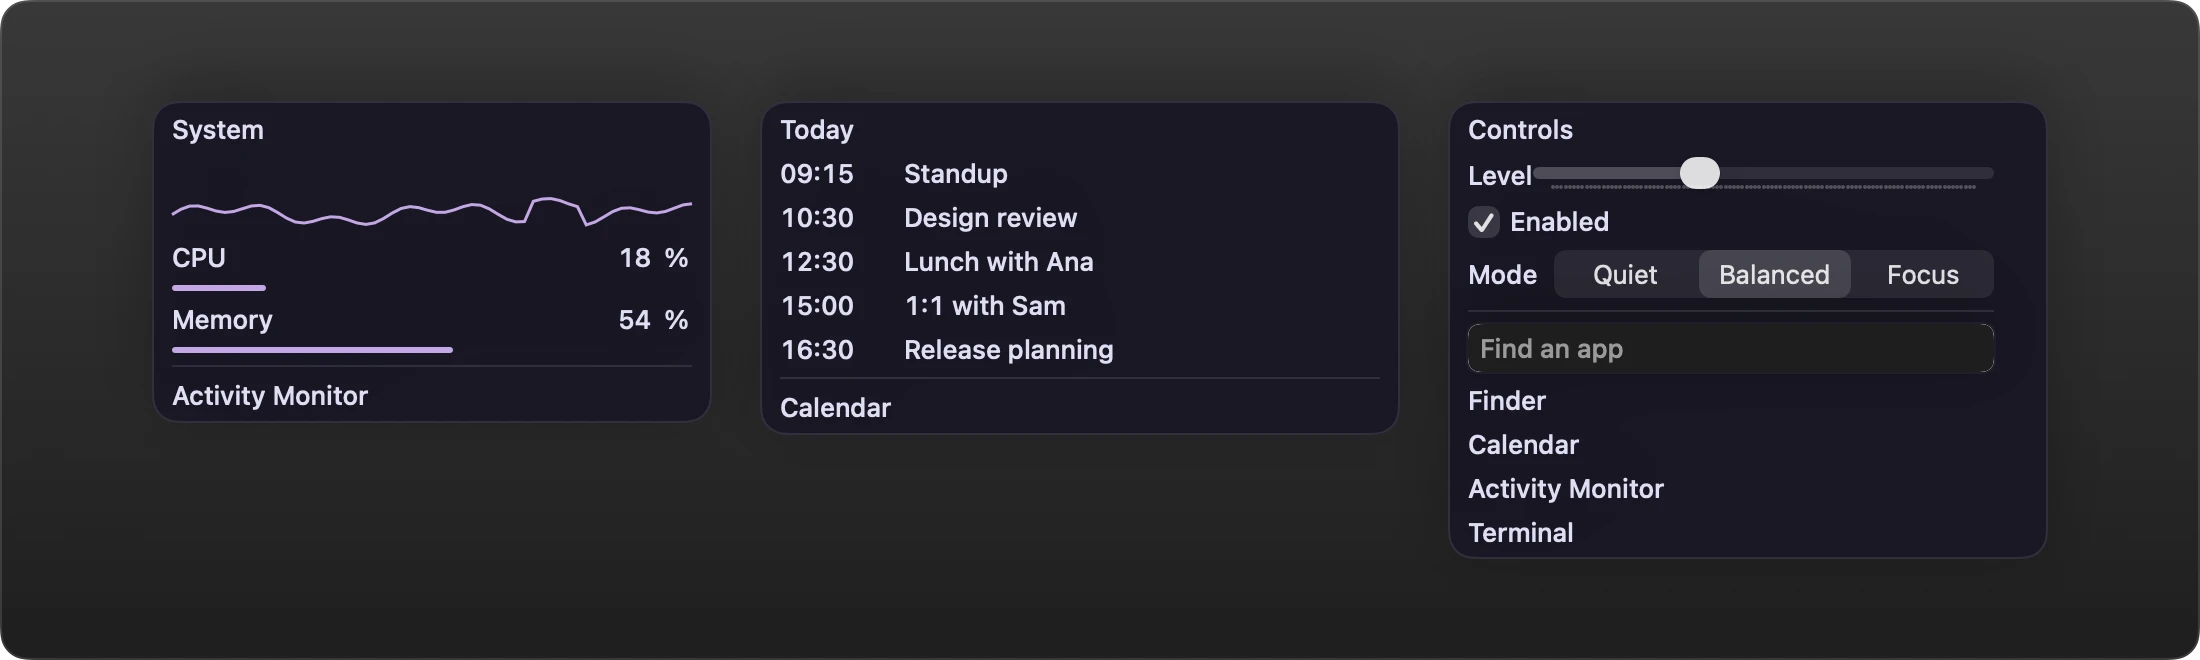
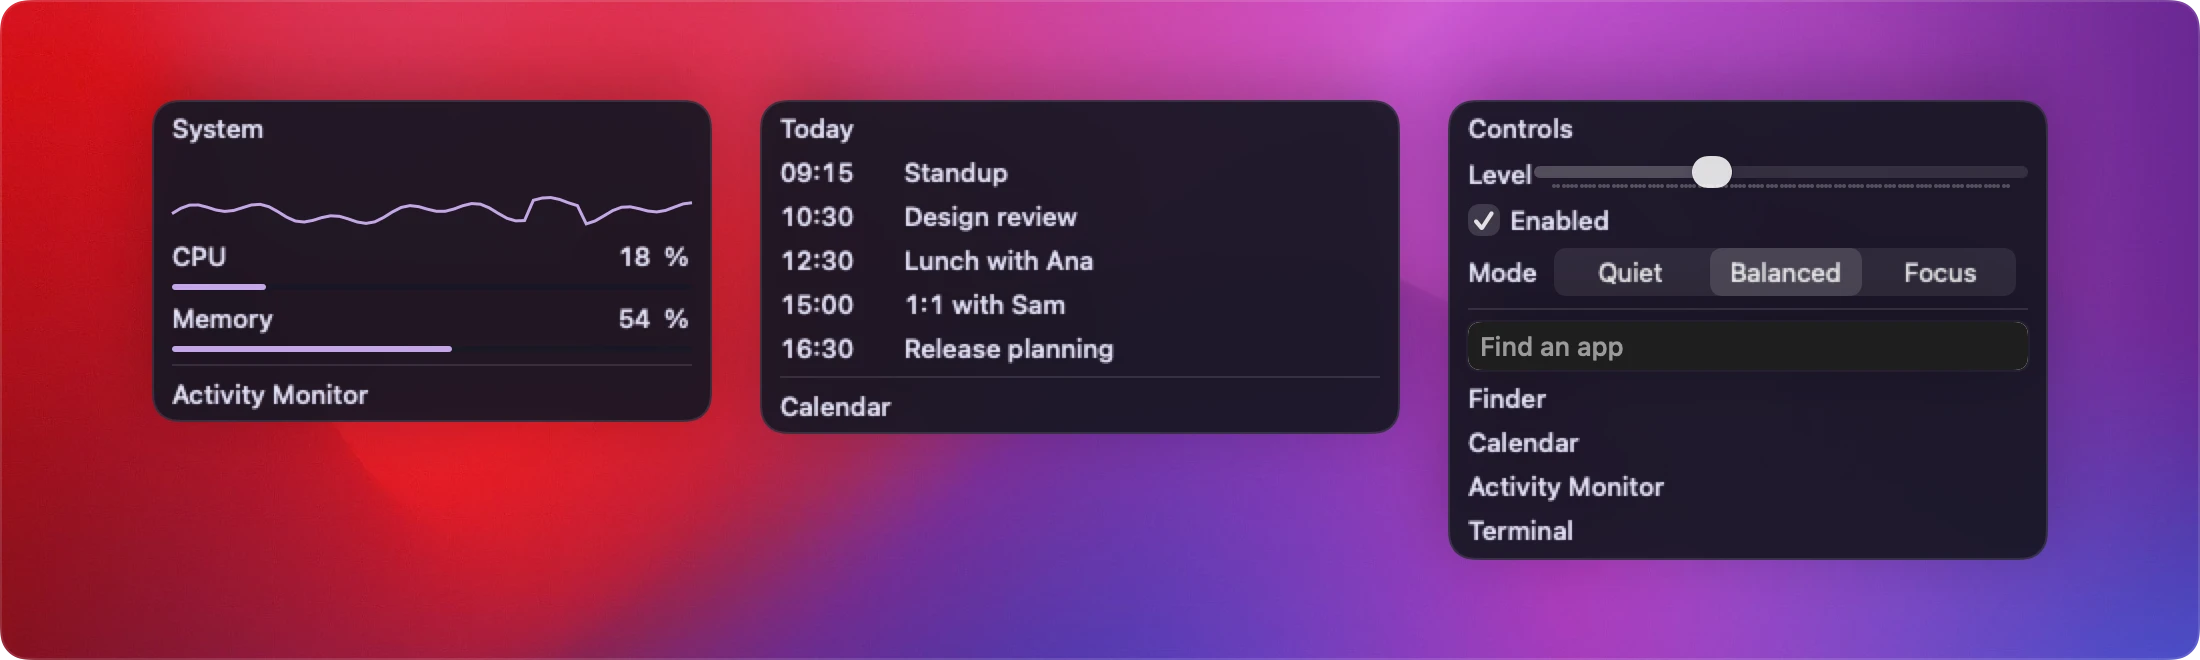
docs: lead the README with the recording
The recording replaces the hero image at the top of the README. The
docs images go back to the amber wallpaper; the five-theme image and
the tighter theme rows stay.

diff --git a/Sources/StableBar/DocsImages.swift b/Sources/StableBar/DocsImages.swift
@@ -83,13 +83,12 @@ enum DocsImages {
     }
 
     private static let display = BarDisplay(id: 1, isBuiltIn: false, isMain: true, notch: nil)
+    private static let darkBackdrop = NSImage(contentsOf: Bundle.main.url(forResource: "SetupAmberDark", withExtension: "heic")!)!
     /// The themes the README shows, a quiet few with different shapes; the guide shows them all.
     private static let themePicks = ["built-in", "rose-pine", "leman", "nord", "notch"]
 
-    /// A soft gray behind the bars and popups, so the themes carry the color.
     private static func backdrop(dark: Bool) -> some View {
-        LinearGradient(colors: dark ? [Color(white: 0.22), Color(white: 0.12)] : [Color(white: 0.95), Color(white: 0.85)],
-                       startPoint: .top, endPoint: .bottom)
+        Image(nsImage: dark ? darkBackdrop : Wallpaper.image!).resizable().scaledToFill()
     }
 
     private static func bar(_ store: BarStore) -> some View {

diff --git a/README.md b/README.md
@@ -18,10 +18,7 @@ Themes, widgets and popups, set up in the app or in plain JSON.
 
 <br>
 
-<picture>
-  <source media="(prefers-color-scheme: dark)" srcset="docs/images/hero-dark.webp">
-  <img src="docs/images/hero-light.webp" alt="StableBar with workspaces, the active app, the next meeting, CPU and memory use, the battery and the time. Today's agenda is open below the meeting.">
-</picture>
+<img src="https://gist.githubusercontent.com/M4n0x/4cdcb17cafe64fdfae1d3b2b736f7582/raw/0717ce239736c9ca78a387e346844bb139ef4f77/stablebar-tour.gif" alt="StableBar in use: today's agenda opens below the meeting widget, Edit Bar in Place drags the meeting widget across the bar while the others slide aside, an app's icon moves to another workspace, and Try Themes steps through Built-in, Blueprint, Broadsheet and Brutalist">
 
 ## Features
 
@@ -36,8 +33,6 @@ Themes, widgets and popups, set up in the app or in plain JSON.
 - **Every display.** Notch-aware placement, widgets per kind of screen and a separate bar for each screen setup.
 - **Updates in the bar.** When a release is out, an icon fades into the bar. Click it to read every change since your version, then download, install and relaunch.
 - **Command line.** `stablebar` queries and edits the running bar and sends events from other tools, and `stablebar triage` hands a problem or an idea to a coding agent.
-
-<img src="https://gist.githubusercontent.com/M4n0x/4cdcb17cafe64fdfae1d3b2b736f7582/raw/0717ce239736c9ca78a387e346844bb139ef4f77/stablebar-tour.gif" alt="StableBar in use: today's agenda opens below the meeting widget, Edit Bar in Place drags the meeting widget across the bar while the others slide aside, an app's icon moves to another workspace, and Try Themes steps through Built-in, Blueprint, Broadsheet and Brutalist">
 
 ## Themes
 
